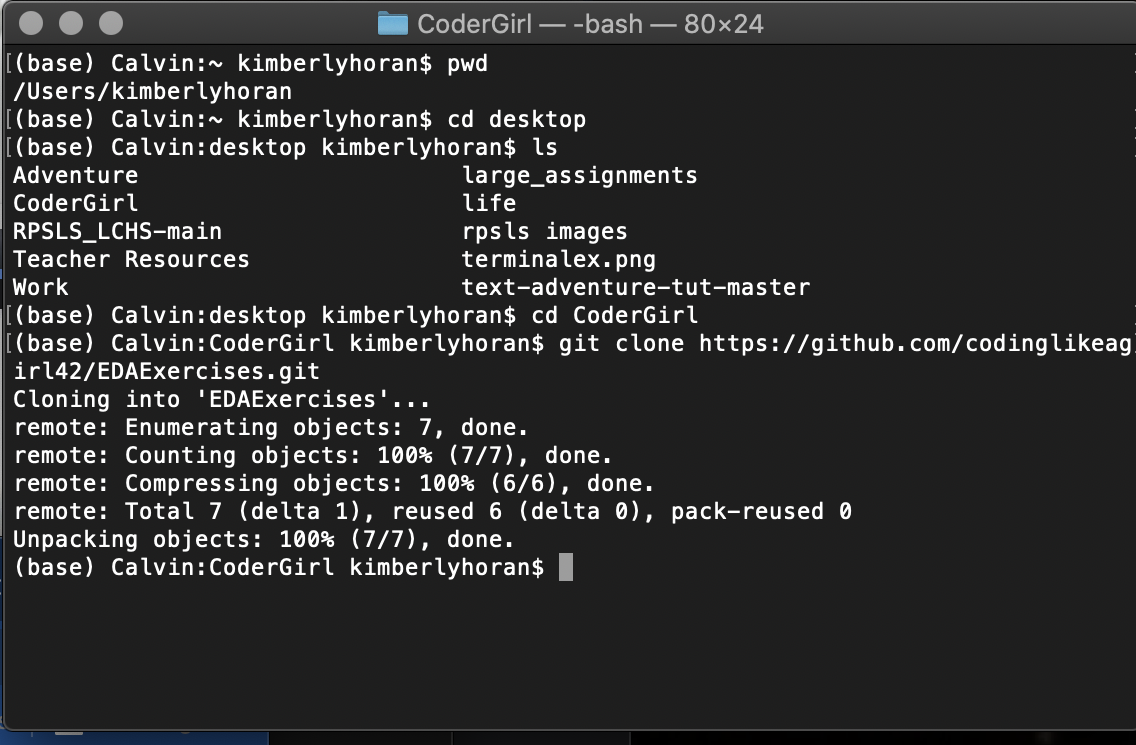
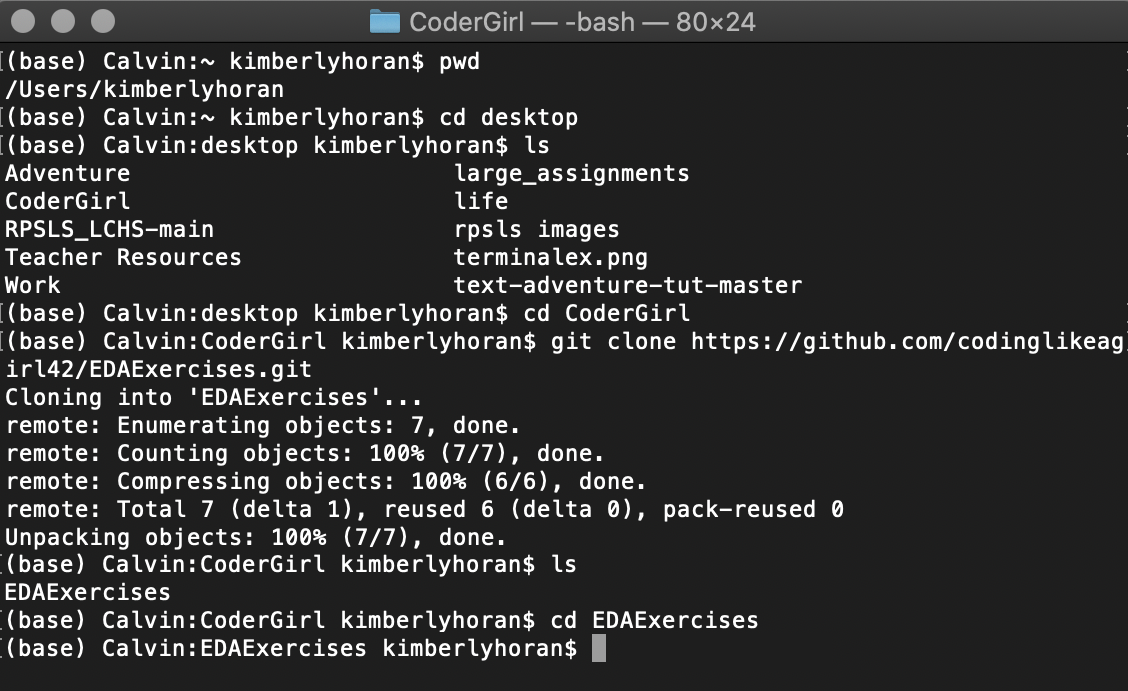
fixed a terminalcloning.png and table to make more clear

Changed region(s): [[0.0, 0.0, 1.0, 1.0], [0.5895, 0.7294, 0.7447, 0.7598]]

diff --git a/src/appendices/jupyter-notebooks/using-github-notebooks.rst b/src/appendices/jupyter-notebooks/using-github-notebooks.rst
@@ -76,6 +76,10 @@ I ran the following commands to navigate into and create a new folder(directory)
     - Switch to Codergirl folder.
   * - git clone <github url> 
     - (paste link you copied earlier)
+  * - ls
+    - Ran ls to see if my project cloned
+  * - cd EDAExercises
+    - Switch into my new project folder
 
 .. figure:: figures/terminalcloning.png
    :alt: A screenshot of cloning a Github repo in terminal.
